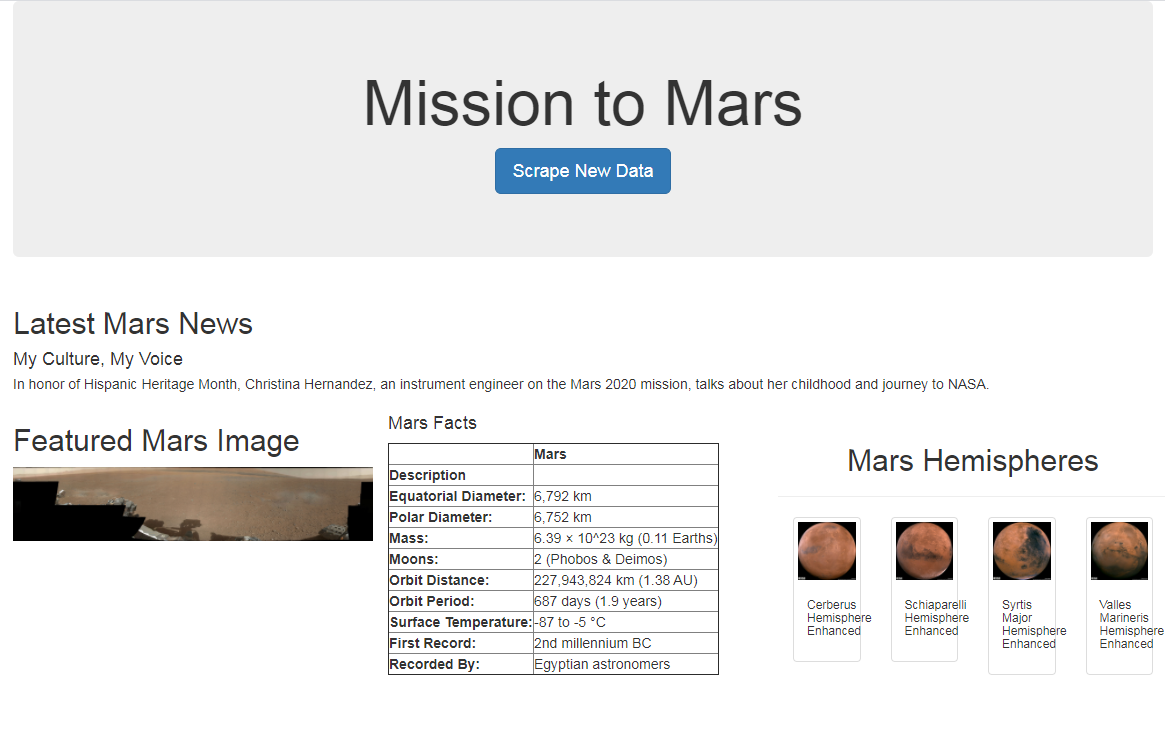
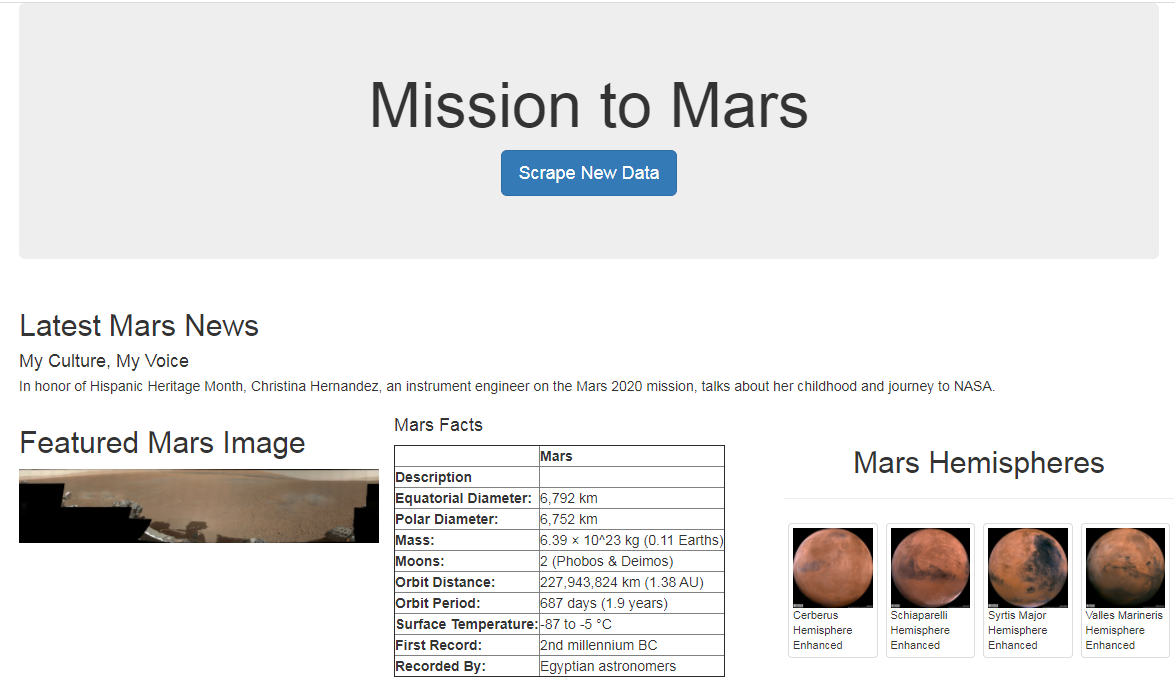
Fixed minor Bootstrap issues; hemisphere images rendering on large window

Changed region(s): [[0.0, 0.4242, 0.8652, 0.9697], [0.6489, 0.6061, 1.0, 0.9394], [0.309, 0.0909, 0.7107, 0.303]]

diff --git a/templates/index.html b/templates/index.html
@@ -62,11 +62,11 @@
             </div>
 
             {% for hemisphere in mars.hemispheres %}
-            <div class="col-md-3">
+            <div class="col-md-3" style="padding: 4px;">
               <div class="thumbnail">
                 <img src="{{hemisphere.img_url | default('static/images/error.png', true)}}" alt="...">
-                <div class="caption">
-                  <h8>{{hemisphere.title}}</h8>
+                <div class="caption" style="word-wrap: break-word; font-size: 11px; padding: 0px;">
+                  <span>{{hemisphere.title}}</span>
                 </div>
               </div>
             </div>
